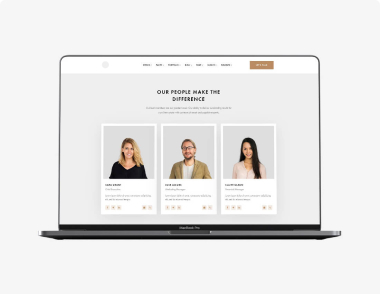
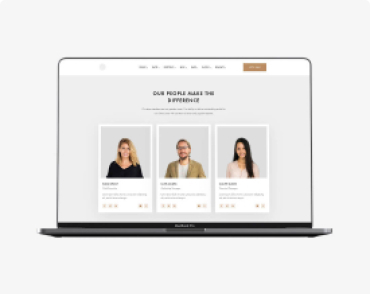
21.05.2020

diff --git a/css/styles.css b/css/styles.css
@@ -10,7 +10,7 @@ li {
   list-style: none;
 }
 
-}
+
 .list {
   margin: 0;
   padding: 0;
@@ -24,7 +24,7 @@ li {
   --color_second: #f5f4fa;
 }
 body {
-  background-color: var(--color_main);
+  background-color: var(--color_white);
   font-family: Roboto;
   color: var(--color_text);
   font-size: 14px;
@@ -97,7 +97,7 @@ body {
 .list {
   display: block;
   display: flex;
-  flex: end;
+   flex: end; 
   margin-left: auto;
 }
 .nav-links .item:not(:last-child) {
@@ -114,7 +114,7 @@ body {
   }
   /* 1600 */
 .container {
-  display: block;
+  
   display: flex;
   flex-direction: row;
   text-align: center;
@@ -122,11 +122,15 @@ body {
   width: 1200px;
   margin-left: auto;
   margin-right: auto;
-  padding:0;
+  padding-top: 0;
+  padding-left: 0;
+  padding-right: 0;
   margin-top:0;
+  margin-bottom: 0;
   padding-top: 94px;
   padding-bottom: 94px
-  background-color: #E5E5E5;
+  /* background-color: #E5E5E5; */
+  border: 1px solid #ECECEC;
 }
 
   .abo{
@@ -134,8 +138,15 @@ body {
     width: 1600px;
     height: 600px; 
     margin-top: 0;
+    text-align: center;
   }
-
+.abo .knop{
+ 
+  display: flex;
+  align-items: center;
+  
+  
+}
 .tit{
   display: block;
   
@@ -148,6 +159,7 @@ text-align: center;
 padding-top: 200px;
 margin-top: 0;
 margin-bottom: 0;
+margin-bottom: 54px;
 }
 .buti{
    font-size: 16px;
@@ -156,8 +168,8 @@ margin-bottom: 0;
   background: #2196f3;
   padding-left: 32px;
   padding-right: 32px;
-  margin-bottom: 0;
-  margin-top: 56px; 
+  margin-bottom: 0; 
+  margin-top: 0;
   margin-right: auto; 
   margin-left: auto;
   width: 200px;
@@ -214,4 +226,7 @@ margin-top: 0;
 margin-bottom: 0;
 padding-top: 94px;
 padding-bottom: 50px;
+  }
+  .line-blok {
+    display: flex;
   }

diff --git a/index.html b/index.html
@@ -29,13 +29,12 @@
       </div>
    
     </header>
-    <div class="abo">
-      <section >
+   
+      <section class="abo">
         <h2 class="tit">эффективные решения <br>для вашего бизнеса</h2>
-        <a href="" class="buti">Заказать услугу</a>
+        <a href="" class="buti knop">Заказать услугу</a>
       </section>
-    </div>
-    
+       
       <div class="container">
         <section class="">
       <!-- <h2 class="title garant">Мы гарантируем</h2> -->
@@ -76,19 +75,19 @@
     </section>
    </div>
   <div class="container"> 
-    <section class="about">
-      <h2 class="title garant">Чем мы занимаемся</h2>
+    <section>
+      <h2 class="garant">Чем мы занимаемся</h2>
       <ul class="line-blok">
         <li class="doit-now">
-          <img src="./img/nout.jpg" alt="ноутбук" width="380" />
+          <img src="./img/nout.jpg" alt="ноутбук" width="370" />
           <h2 class="title">Десктопные приложения</h2>
         </li>
         <li  class="doit-now">
-          <img src="./img/phone.jpg" alt="телефон" width="380" />
+          <img src="./img/phone.jpg" alt="телефон" width="370" />
           <h2 class="title">Мобильные приложения</h2>
         </li>
         <li class="doit-now">
-          <img src="./img/monic.jpg" alt="монитор" width="380" />
+          <img src="./img/monic.jpg" alt="монитор" width="370" />
           <h2 class="title">Дизайнерские решения</h2>
         </li>
       </ul>
